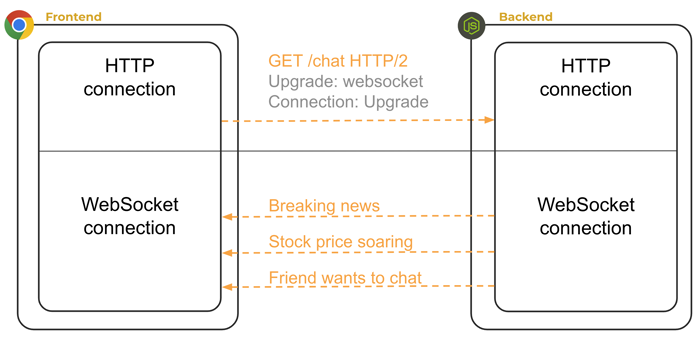
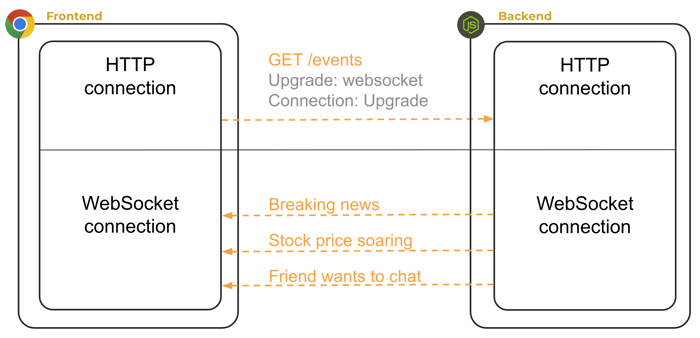
enhance(webSocket) with long poll diagram

diff --git a/profile/webServices/webSocket/webSocket/webSocket.md b/profile/webServices/webSocket/webSocket/webSocket.md
@@ -4,7 +4,11 @@
 
 HTTP is based on a client-server architecture. A client always initiates the request and the server responds. This is great if you are building a global document library connected by hyperlinks, but for many other use cases it just doesn't work. Applications for notifications, distributed task processing, peer-to-peer communication, or asynchronous events need communication that is initiated by two or more connected devices.
 
-For years, web developers created hacks to work around the limitation of the client/server model. This included solutions like having the client frequently pinging the server to see if the server had anything to say, or keeping client-initiated connections open for a very long time as the client waited for some event to happen on the server. Needless to say, none of these solutions were elegant or efficient.
+For years, web developers created hacks to work around the limitation of the client/server model. This included solutions like having the client frequently pinging the server to see if the server had anything to say, or keeping client-initiated connections open for a very long time as the client waited for some event to happen on the server.
+
+![alt text](webSocketLongPoll.png)
+
+Needless to say, none of these solutions were elegant or efficient.
 
 Finally, in 2011 the communication protocol WebSocket was created to solve this problem. The core feature of WebSocket is that it is fully duplexed. This means that after the initial connection is made from a client, using vanilla HTTP, and then upgraded by the server to a WebSocket connection, the relationship changes to a peer-to-peer connection where either party can efficiently send data at any time.
 
